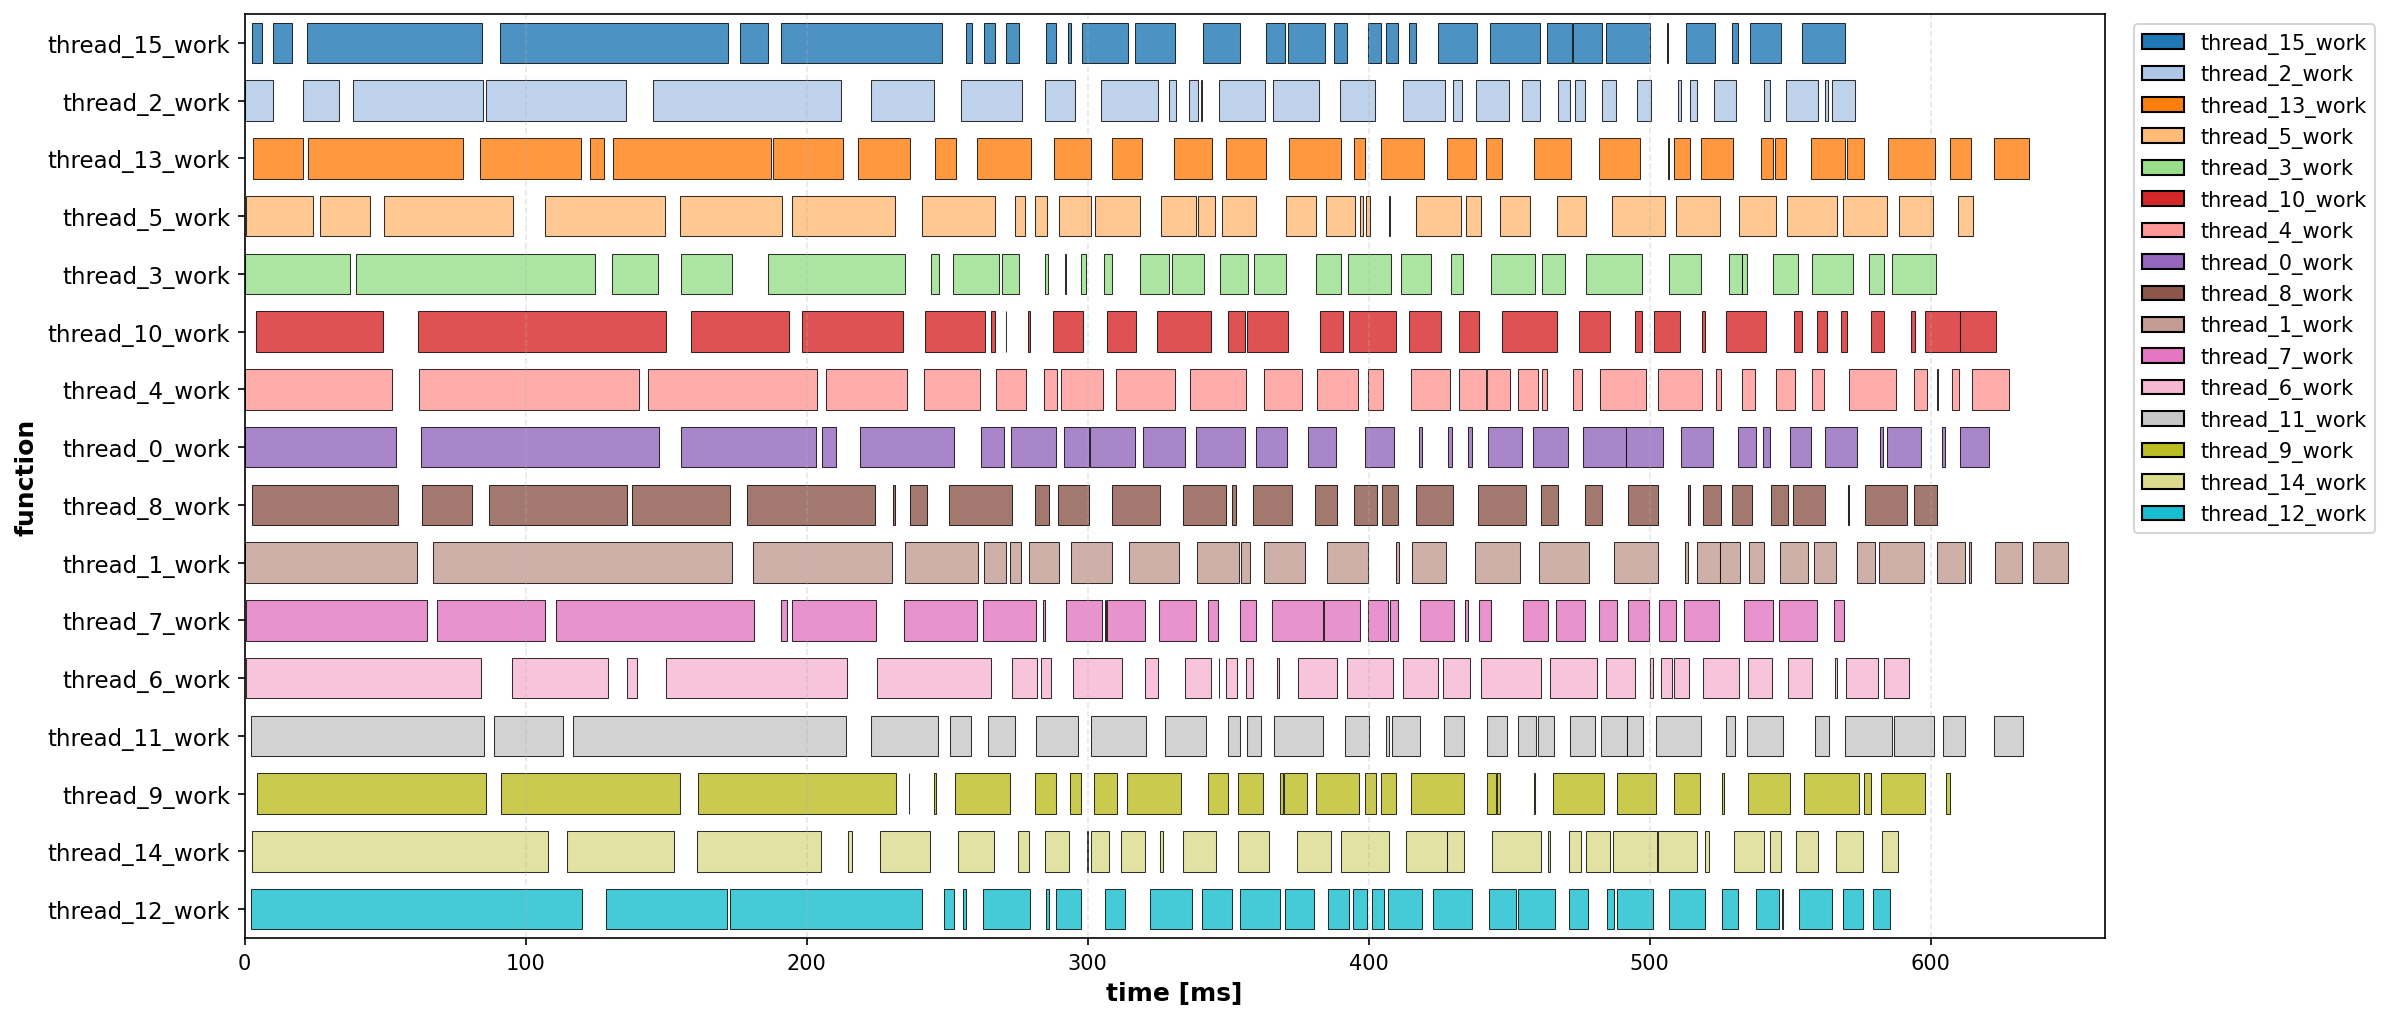
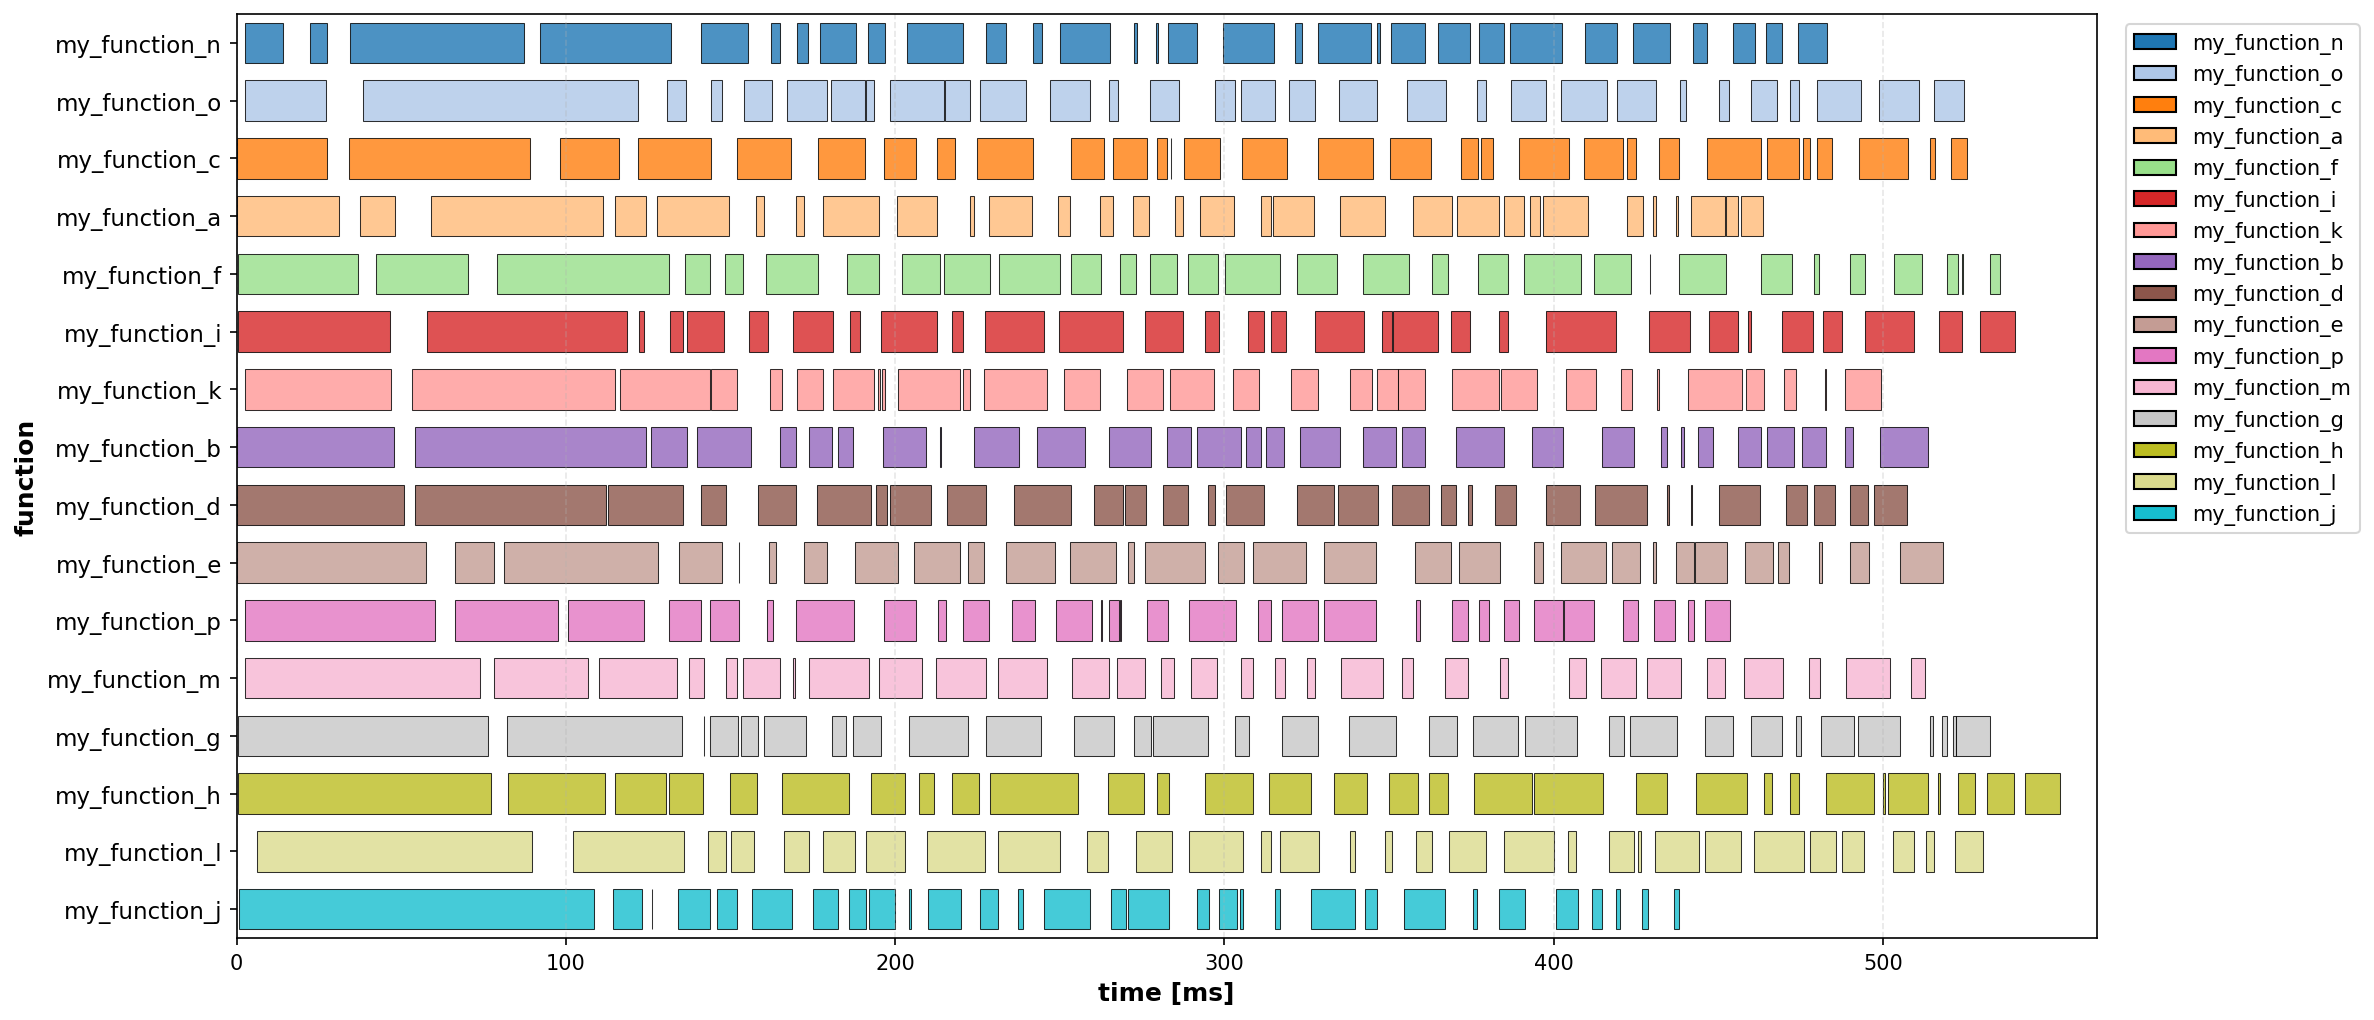
clearer

diff --git a/plot.py b/plot.py
@@ -5,7 +5,7 @@ import matplotlib.patches as mpatches
 import csv
 from collections import defaultdict
 
-def plot_chart(csv_file, output_file):   
+def plot_chart(csv_file, output_file, filter_funcs=None):   
     data = []
     with open(csv_file, 'r') as f:
         reader = csv.DictReader(f)
@@ -25,6 +25,12 @@ def plot_chart(csv_file, output_file):
     for row in data:
         row['start_ms'] -= min_start
         row['end_ms'] -= min_start
+    
+    if filter_funcs:
+        data = [row for row in data if row['name'] in filter_funcs]
+        if not data:
+            print(f"Error: No matching functions found. Available: {list(dict.fromkeys(row['name'] for row in data))}")
+            return
     
     functions = list(dict.fromkeys(row['name'] for row in data))
     func_to_y = {func: i for i, func in enumerate(functions)}
@@ -91,9 +97,10 @@ if __name__ == "__main__":
     
     csv_file = "benchmarks.csv" if len(sys.argv) < 2 else sys.argv[1]
     output_file = "chart.png" if len(sys.argv) < 3 else sys.argv[2]
+    filter_funcs = sys.argv[3:] if len(sys.argv) > 3 else None
     
     try:
-        plot_chart(csv_file, output_file)
+        plot_chart(csv_file, output_file, filter_funcs)
     except FileNotFoundError:
         print(f"Error: Could not find {csv_file}")
         sys.exit(1)

diff --git a/example.c b/example.c
@@ -5,6 +5,10 @@
 #define NUM_THREADS 16
 #define ITERATIONS_PER_THREAD 30
 
+static char alphabeth[NUM_THREADS] = "abcdefghijklmnop";
+
+
+
 long rand_range(long min, long max) {
     return min + (rand() % (max - min + 1));
 }
@@ -20,7 +24,7 @@ void* thread_work(void* arg) {
     int thread_id = (intptr_t)arg;
     
     char name[64];
-    snprintf(name, sizeof(name), "thread_%d_work", thread_id);
+    snprintf(name, sizeof(name), "my_function_%c", alphabeth[thread_id]);
     
     for (int i = 0; i < ITERATIONS_PER_THREAD; i++) {
         // -- USER --

diff --git a/README.md b/README.md
@@ -15,6 +15,13 @@ bench_t b = bench_start("function");
 function(...);
 bench_stop(b);
 ```
+## Plotting
+
+For plotting, youc an specify multiple arguments like so
+```python
+python3 plot.py {filename.csv} {output.png} [banned_function_a banned_function_b]
+```
+
 
 ## Results
 
